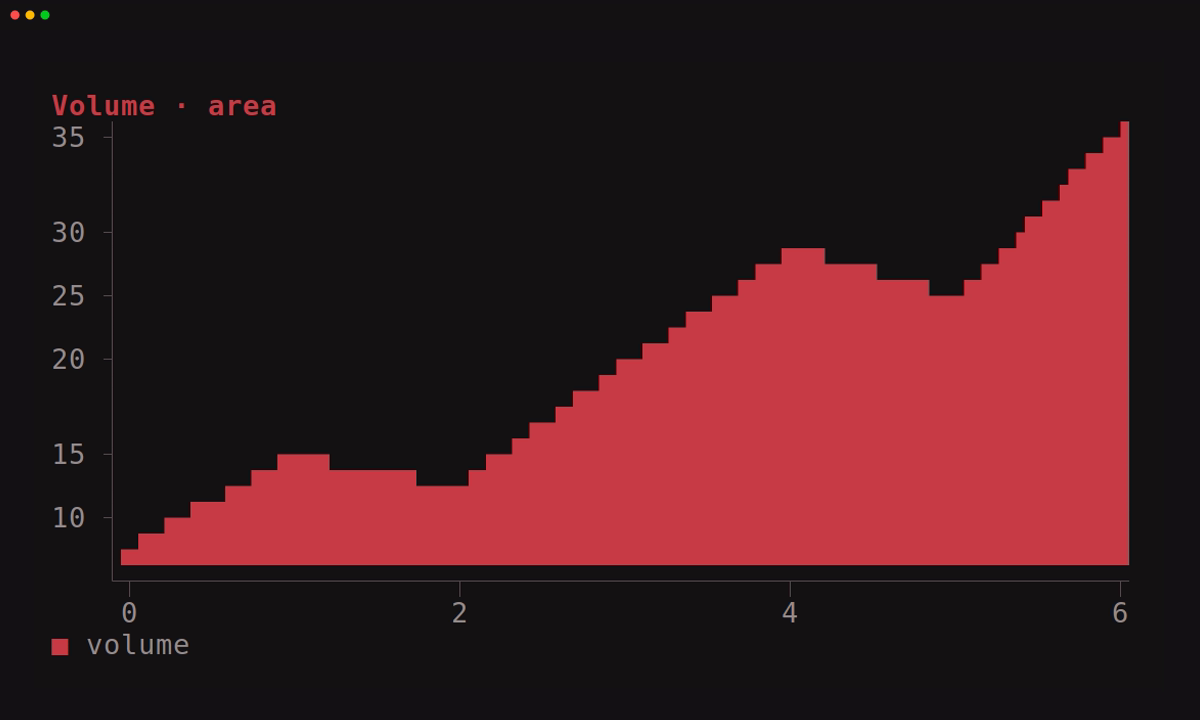
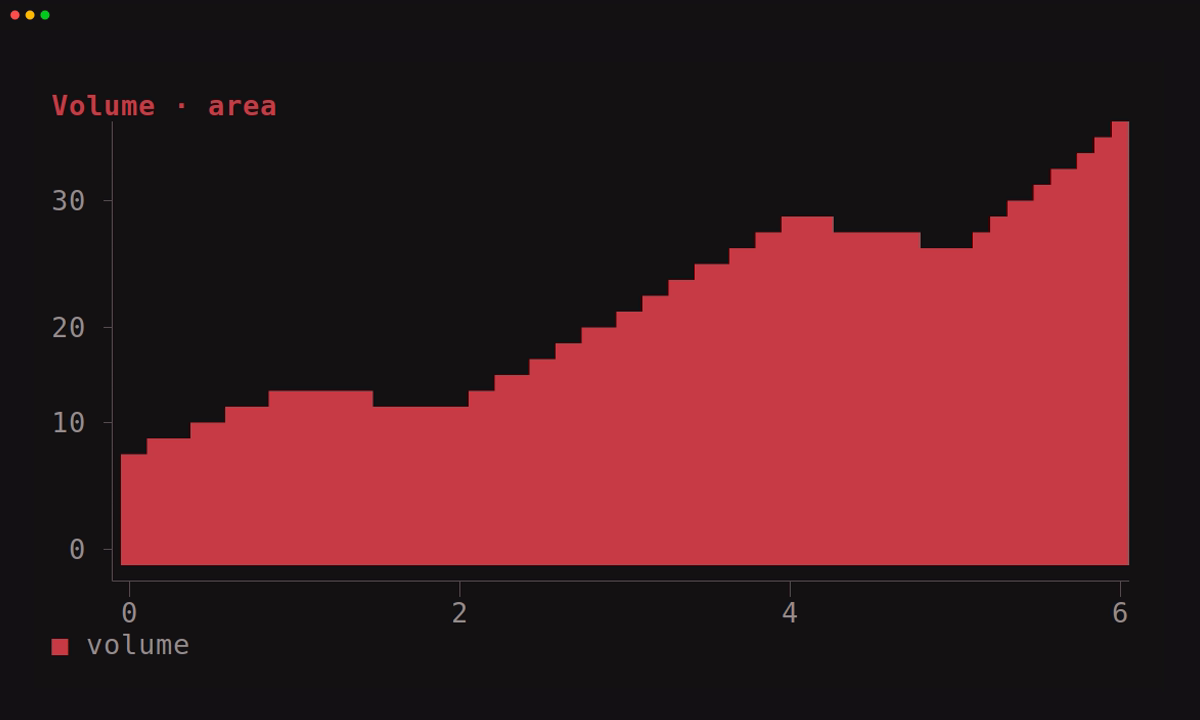
fix(charts): extend automatic y domains to the zero baseline
A bar or an area encodes its value in the filled span, not in the position
of its tip. Starting the automatic domain at the data minimum drew a bar of
1 beside a bar of 5 as a sliver beside a full column — a ratio the data
never contained. The axis labels made it legible, but the defect predates
them.

Automatic y domains now reach zero whenever the chart carries a bar or area
series. Line, step, and scatter marks are read as positions, so they keep
the tighter domain that resolves their variation. Explicit domains are
untouched and remain exact clipping bounds.

Re-recorded the bar and area captures, which are what the change moves.

diff --git a/crates/tuika-charts/src/lib.rs b/crates/tuika-charts/src/lib.rs
@@ -890,3 +890,144 @@ mod axis_tests {
         }
     }
 }
+
+#[cfg(test)]
+mod baseline_tests {
+    use super::*;
+
+    fn domain_of(chart: &Chart) -> Domain {
+        PlotModel::new(chart).unwrap().y
+    }
+
+    fn points(values: [f64; 3]) -> [Point; 3] {
+        [
+            Point::new(0.0, values[0]),
+            Point::new(1.0, values[1]),
+            Point::new(2.0, values[2]),
+        ]
+    }
+
+    #[test]
+    fn bars_and_areas_reach_the_zero_baseline() {
+        for series in [
+            Series::bar("bars", points([1.0, 4.0, 5.0])),
+            Series::area("area", points([1.0, 4.0, 5.0])),
+        ] {
+            let domain = domain_of(&Chart::new().series(series));
+            assert_eq!(domain, Domain { min: 0.0, max: 5.0 });
+        }
+    }
+
+    #[test]
+    fn positional_series_keep_the_tighter_domain() {
+        for series in [
+            Series::line("line", points([12.0, 18.0, 16.0])),
+            Series::step("step", points([12.0, 18.0, 16.0])),
+            Series::scatter("scatter", points([12.0, 18.0, 16.0])),
+        ] {
+            let domain = domain_of(&Chart::new().series(series));
+            assert_eq!(
+                domain,
+                Domain {
+                    min: 12.0,
+                    max: 18.0
+                },
+                "a positional series should not be flattened toward zero"
+            );
+        }
+    }
+
+    #[test]
+    fn one_baselined_series_anchors_the_whole_chart() {
+        // The shared domain has to satisfy the bar, or the bar would lie.
+        let chart = Chart::new()
+            .series(Series::line("line", points([12.0, 18.0, 16.0])))
+            .series(Series::bar("bars", points([2.0, 5.0, 3.0])));
+        assert_eq!(
+            domain_of(&chart),
+            Domain {
+                min: 0.0,
+                max: 18.0
+            }
+        );
+    }
+
+    #[test]
+    fn negative_values_extend_to_zero_from_the_other_side() {
+        let chart = Chart::new().series(Series::bar("debt", points([-5.0, -2.0, -1.0])));
+        assert_eq!(
+            domain_of(&chart),
+            Domain {
+                min: -5.0,
+                max: 0.0
+            }
+        );
+
+        let straddling = Chart::new().series(Series::bar("delta", points([-3.0, 2.0, 4.0])));
+        assert_eq!(
+            domain_of(&straddling),
+            Domain {
+                min: -3.0,
+                max: 4.0
+            },
+            "a domain already containing zero is unchanged"
+        );
+    }
+
+    #[test]
+    fn a_constant_bar_series_still_gets_a_usable_domain() {
+        let chart = Chart::new().series(Series::bar("flat", points([4.0, 4.0, 4.0])));
+        let domain = domain_of(&chart);
+        assert_eq!(domain.min, 0.0);
+        assert!(domain.max > 4.0, "the bar must not touch the top edge");
+
+        let zeroed = Chart::new().series(Series::bar("zero", points([0.0, 0.0, 0.0])));
+        let domain = domain_of(&zeroed);
+        assert!(domain.min < domain.max, "a degenerate domain stays valid");
+    }
+
+    #[test]
+    fn an_explicit_domain_is_never_widened() {
+        let chart = Chart::new()
+            .series(Series::bar("bars", points([12.0, 18.0, 16.0])))
+            .y_domain(Domain::new(10.0, 20.0).unwrap());
+        assert_eq!(
+            domain_of(&chart),
+            Domain {
+                min: 10.0,
+                max: 20.0
+            }
+        );
+    }
+
+    #[test]
+    fn bars_render_proportional_heights_from_the_baseline() {
+        let area = Rect::new(0, 0, 30, 12);
+        let mut buffer = ratatui_core::buffer::Buffer::empty(area);
+        Chart::new()
+            .legend(false)
+            .series(Series::bar("bars", points([1.0, 2.0, 4.0])))
+            .render(
+                area,
+                &mut Surface::new(&mut buffer, area),
+                &RenderCtx::new(&tuika::Theme::default()),
+            );
+
+        // Column heights must grow with the values, and the smallest bar must
+        // still be drawn rather than collapse onto the axis.
+        let heights: Vec<usize> = (0..area.width)
+            .map(|x| {
+                (0..area.height)
+                    .filter(|&y| buffer[(x, y)].symbol() == "█")
+                    .count()
+            })
+            .filter(|&count| count > 0)
+            .collect();
+        assert_eq!(heights.len(), 3, "one column per bar: {heights:?}");
+        assert!(heights[0] >= 2, "the smallest bar is visible: {heights:?}");
+        assert!(
+            heights[0] < heights[1] && heights[1] < heights[2],
+            "{heights:?}"
+        );
+    }
+}

diff --git a/crates/tuika-charts/src/model.rs b/crates/tuika-charts/src/model.rs
@@ -140,7 +140,10 @@ impl PlotModel {
             let domain = padded_domain(xmin, xmax);
             pad_automatic_bar_domain(chart, domain)
         });
-        let y = chart.y_domain.unwrap_or_else(|| padded_domain(ymin, ymax));
+        let y = chart.y_domain.unwrap_or_else(|| {
+            let domain = padded_domain(ymin, ymax);
+            include_baseline(chart, domain)
+        });
         Some(Self { x, y })
     }
 
@@ -154,6 +157,32 @@ impl PlotModel {
         let y = (height.saturating_sub(1) as f64 - normalized_y * height.saturating_sub(1) as f64)
             .round() as i32;
         (x, y)
+    }
+}
+
+/// Extend an automatic y domain to the zero baseline when the chart draws
+/// geometry that is read as a distance from it.
+///
+/// A bar or an area encodes its value in the filled span, not in the position
+/// of its tip. Starting the domain at the data minimum makes a bar of 1 beside
+/// a bar of 5 a sliver beside a full column, which states a ratio the data does
+/// not contain. Lines, steps, and scatter marks are read as positions, so they
+/// keep the tighter domain that resolves their variation.
+///
+/// Explicit domains are untouched: they remain exact clipping bounds.
+fn include_baseline(chart: &Chart, domain: Domain) -> Domain {
+    let baselined = chart
+        .series
+        .iter()
+        .any(|series| matches!(series.kind, SeriesKind::Bar | SeriesKind::Area));
+    if !baselined {
+        return domain;
+    }
+    let (min, max) = (domain.min.min(0.0), domain.max.max(0.0));
+    if min < max && min.is_finite() && max.is_finite() {
+        Domain { min, max }
+    } else {
+        domain
     }
 }
 

diff --git a/knowledge/specs/charts.md b/knowledge/specs/charts.md
@@ -51,6 +51,12 @@ restores the unlabelled geometry for sparklines and dense dashboards.
 Non-finite points are ignored; no finite data renders a stable empty state.
 Automatic x domains containing bars extend by half the smallest finite bar
 interval on each side, keeping centered edge bars inside either renderer.
+Automatic y domains extend to the zero baseline whenever the chart carries a
+bar or area series, because those encode their value in the filled span rather
+than the position of the tip: a domain starting at the data minimum would draw
+a bar of 1 beside a bar of 5 as a sliver beside a full column, stating a ratio
+the data does not contain. Line, step, and scatter series are read as positions
+and keep the tighter domain that resolves their variation.
 Explicit domains remain exact clipping bounds.
 
 

diff --git a/CHANGELOG.md b/CHANGELOG.md
@@ -52,6 +52,15 @@ described in the release process begins with the entry below.
   the graphics path's internal margins, so a graphics plot now covers the same
   data cells its portable counterpart does.
 
+### Fixed
+
+- **Charts**: automatic y domains reach the zero baseline whenever a chart
+  carries a bar or area series. These marks encode their value in the filled
+  span, so a domain starting at the data minimum drew a bar of 1 beside a bar
+  of 5 as a sliver beside a full column — a ratio the data never contained.
+  Line, step, and scatter series are read as positions and keep the tighter
+  domain that resolves their variation; `Chart::y_domain` still overrides both.
+
 ## [0.9.0] - 2026-08-15
 
 Released alongside `tuika-charts` 0.1.0 — its first release — plus

diff --git a/docs/charts.md b/docs/charts.md
@@ -166,6 +166,13 @@ let chart = Chart::new()
     ]));
 ```
 
+Automatic y domains reach the zero baseline whenever a chart carries a bar or
+area series. Those marks encode their value in the filled span, so a domain
+starting at the data minimum would show a bar of 1 beside a bar of 5 as a
+sliver beside a full column. Line, step, and scatter series are read as
+positions instead, and keep the tighter domain that resolves their variation.
+Set `y_domain` to override either choice.
+
 Non-finite points are ignored. A chart with no finite data renders `No chart
 data`. Explicit domains are used verbatim and therefore control clipping
 directly.
